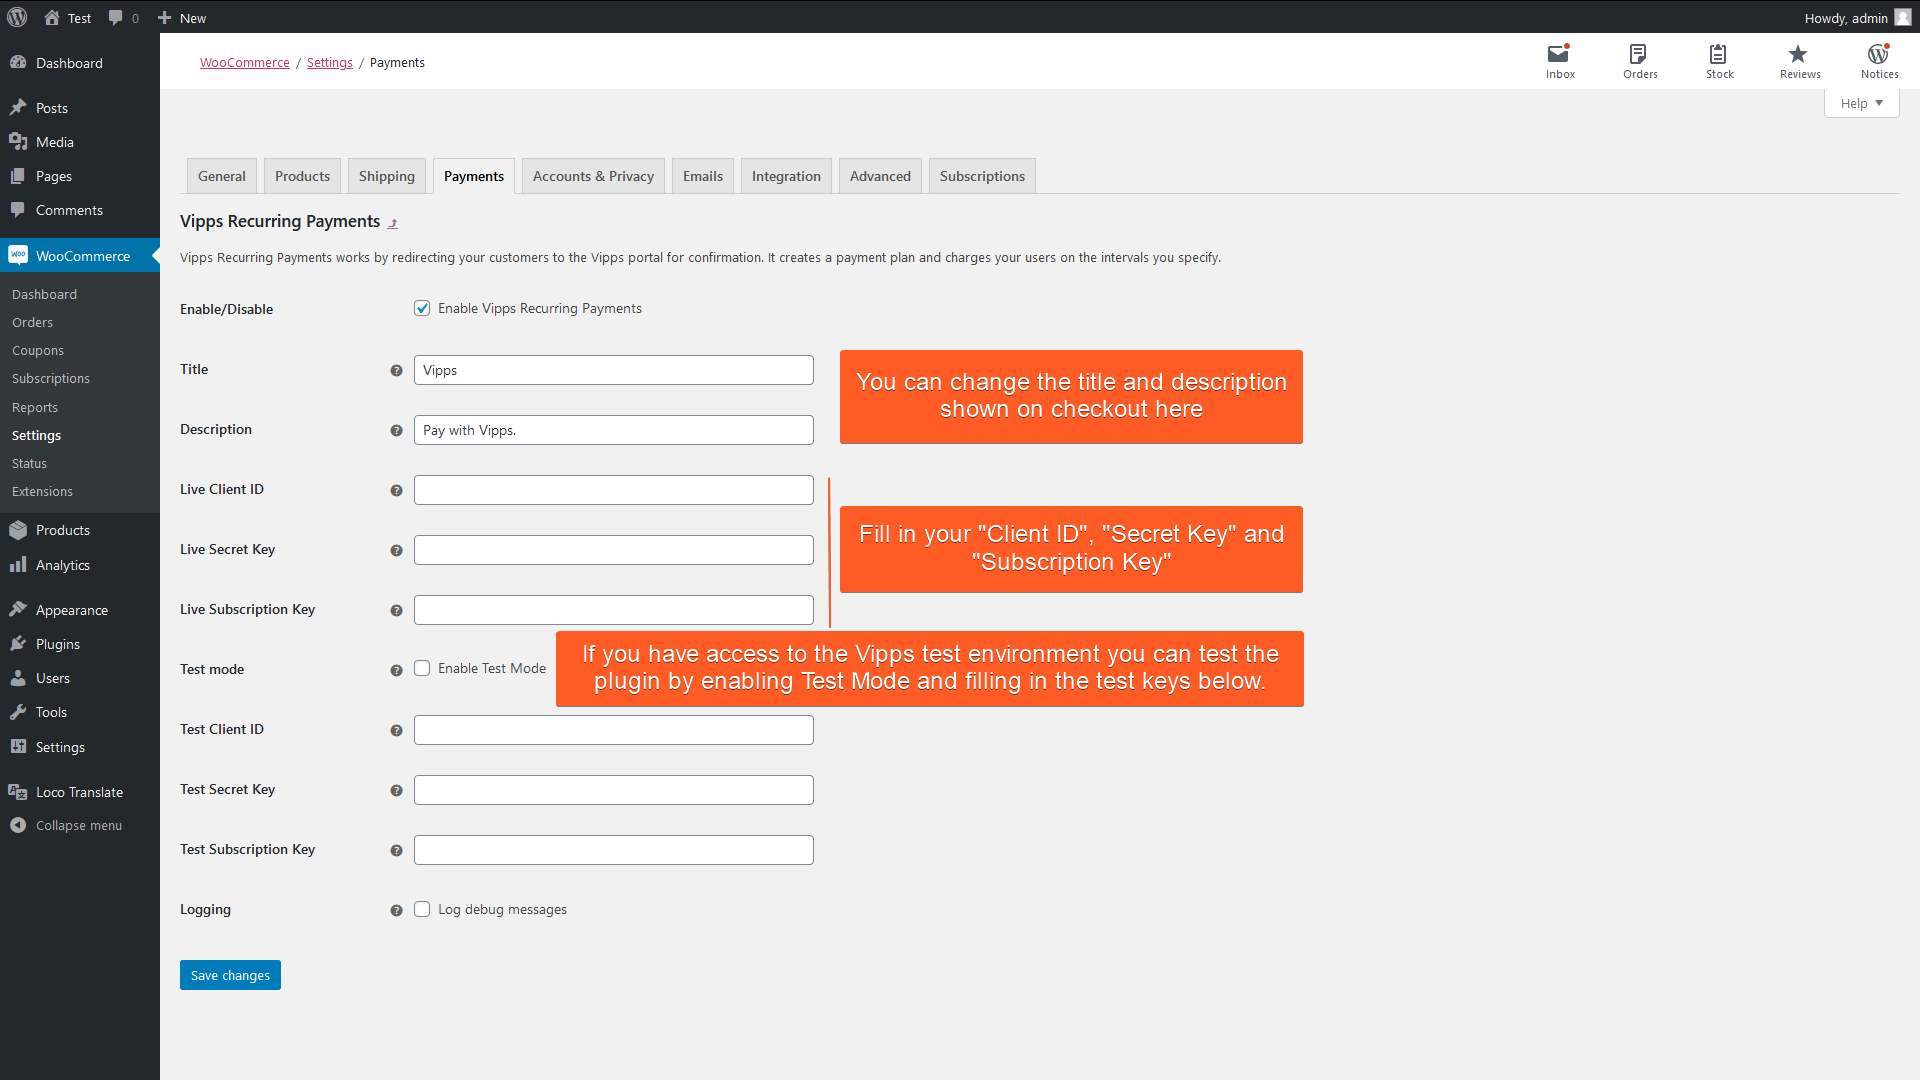
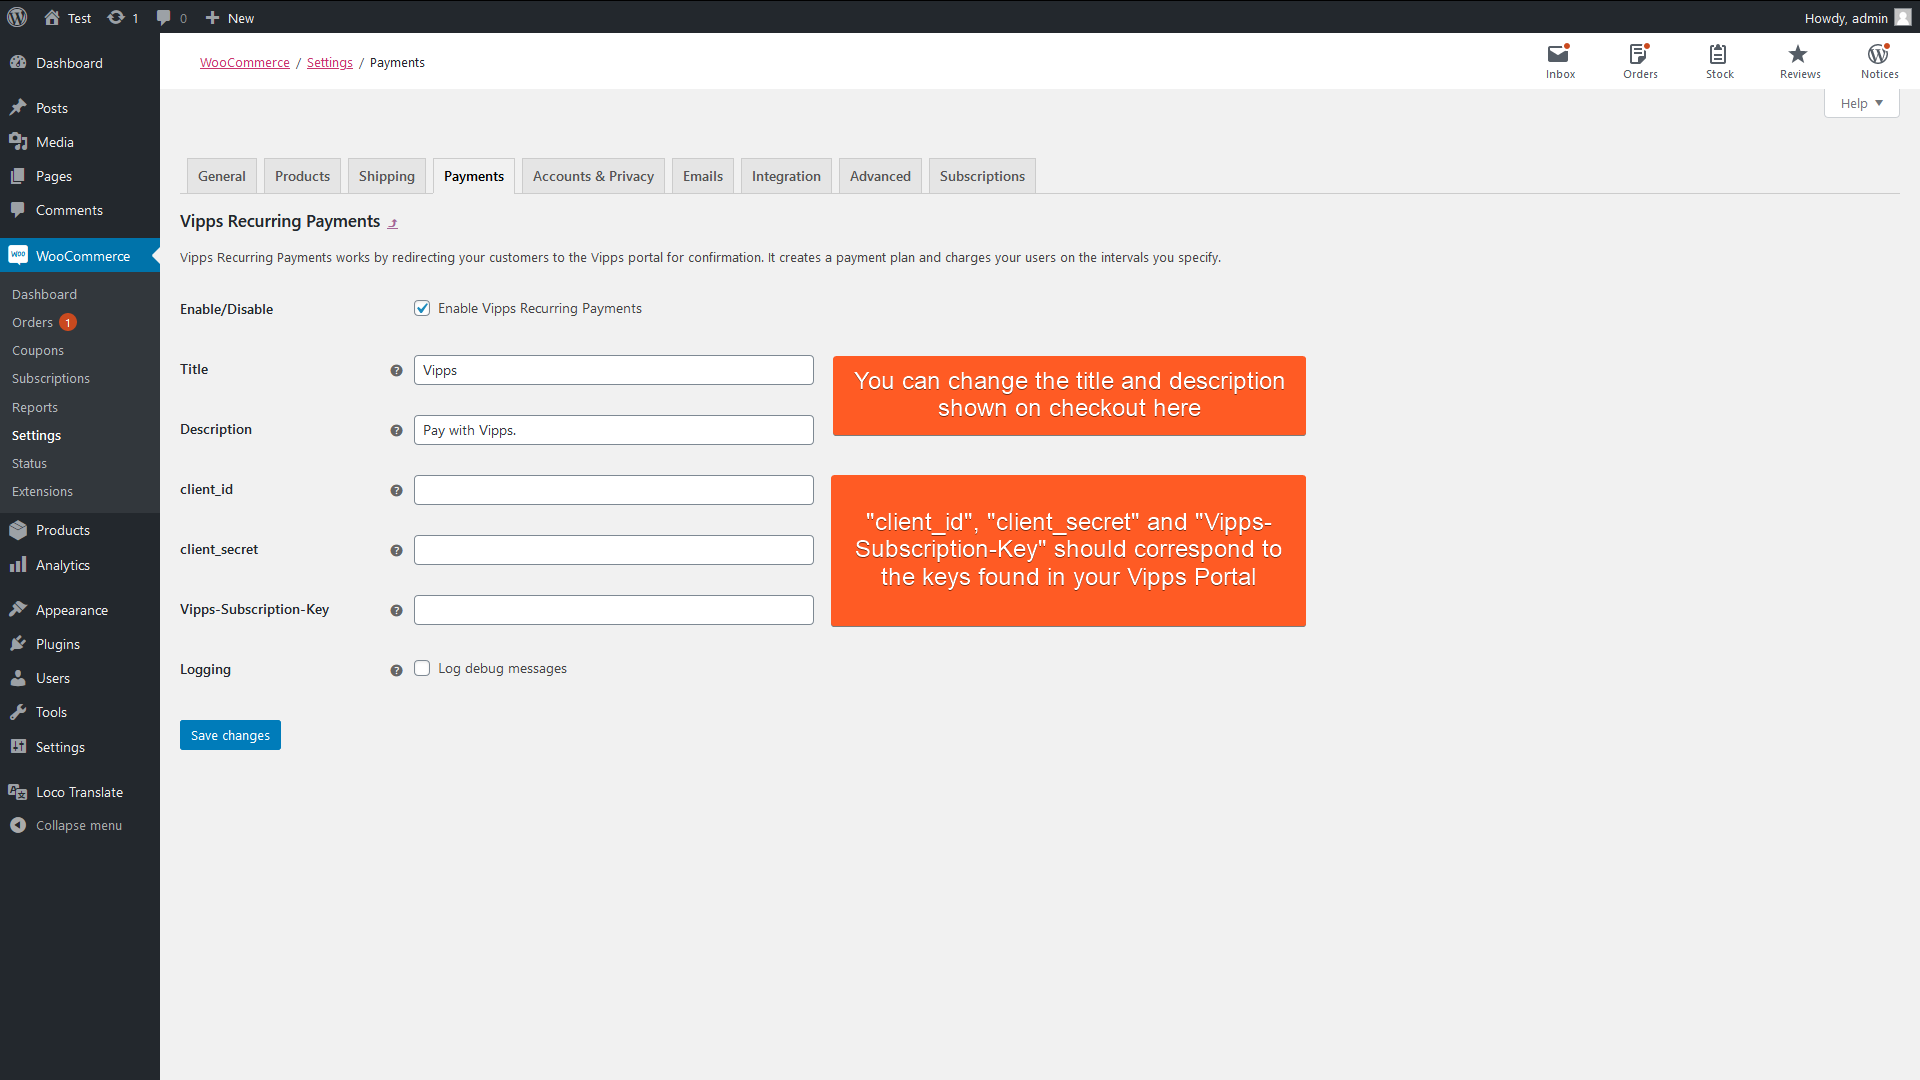
Simplify settings page and up version to 1.0.3
* Improvement: Removed test fields from settings in favour of a the `WC_VIPPS_RECURRING_TEST_MODE` constant.
* Improvement: Renamed test fields to be the same as found in your Vipps Portal
* Change: Renamed `WC_VIPPS_RECURRING_DUE_MINIMUM_DAYS` constant to `WC_VIPPS_RECURRING_CHARGE_BEFORE_DUE_DAYS`.
* Fix: Constant overrides now work properly.

diff --git a/woo-vipps-recurring.php b/woo-vipps-recurring.php
@@ -5,7 +5,7 @@
  * Description: Offer recurring payments with Vipps for WooCommerce Subscriptions
  * Author: Vipps AS
  * Author URI: https://vipps.no
- * Version: 1.0.2
+ * Version: 1.0.3
  * Requires at least: 4.4
  * Tested up to: 5.2.4
  * WC requires at least: 5.0.0
@@ -78,7 +78,7 @@ function woocommerce_gateway_vipps_recurring_init() {
 		/*
 		 * Required minimums and constants
 		 */
-		define( 'WC_VIPPS_RECURRING_VERSION', '1.0.2' );
+		define( 'WC_VIPPS_RECURRING_VERSION', '1.0.3' );
 		define( 'WC_VIPPS_RECURRING_MIN_PHP_VER', '7.1.0' );
 		define( 'WC_VIPPS_RECURRING_MIN_WC_VER', '5.0.0' );
 		define( 'WC_VIPPS_RECURRING_MAIN_FILE', __FILE__ );
@@ -88,13 +88,25 @@ function woocommerce_gateway_vipps_recurring_init() {
 		/*
 		 * Amount of days to retry a payment when creating a charge in the Vipps API
 		 */
-		define('WC_VIPPS_RECURRING_RETRY_DAYS', 3);
+		if ( ! defined( 'WC_VIPPS_RECURRING_RETRY_DAYS' ) ) {
+			define( 'WC_VIPPS_RECURRING_RETRY_DAYS', 3 );
+		}
 
 		/*
-		 * Minimum amount of days to charge in advance when renewing a subscription.
+		 * Amount of days to charge in advance when renewing a subscription.
 		 * Currently this value has to be 6 days or more as per Vipps' specification.
 		 */
-		define('WC_VIPPS_RECURRING_DUE_MINIMUM_DAYS', 6);
+		if ( ! defined( 'WC_VIPPS_RECURRING_CHARGE_BEFORE_DUE_DAYS' ) ) {
+			define( 'WC_VIPPS_RECURRING_CHARGE_BEFORE_DUE_DAYS', 6 );
+		}
+
+
+		/*
+		 * Whether or not to put the plugin into test mode. This is only useful for developers.
+		 */
+		if ( ! defined( 'WC_VIPPS_RECURRING_TEST_MODE' ) ) {
+			define( 'WC_VIPPS_RECURRING_TEST_MODE', false );
+		}
 
 		class WC_Vipps_Recurring {
 			/**
@@ -209,7 +221,7 @@ function woocommerce_gateway_vipps_recurring_init() {
 
 				if ( $gateway->testmode ) {
 					add_action( 'admin_notices', static function () {
-						$notice = __( 'Vipps Recurring Payments is currently in test mode - no real transactions will occur. Disable this <a href="admin.php?page=wc-settings&tab=checkout&section=vipps_recurring" target="_blank">here</a> when you are ready to go live!', 'woo-vipps-recurring' );
+						$notice = __( 'Vipps Recurring Payments is currently in test mode - no real transactions will occur. Disable this in your wp_config when you are ready to go live!', 'woo-vipps-recurring' );
 						echo "<div class='notice notice-info is-dismissible'><p>$notice</p></div>";
 					} );
 				}

diff --git a/includes/admin/vipps-recurring-settings.php b/includes/admin/vipps-recurring-settings.php
@@ -29,50 +29,21 @@ return apply_filters(
 			'desc_tip'    => true,
 		],
 		'client_id'             => [
-			'title'       => __( 'Live Client ID', 'woo-vipps-recurring' ),
+			'title'       => __( 'client_id', 'woo-vipps-recurring' ),
 			'type'        => 'text',
 			'description' => __( 'Get your API keys from your Vipps developer portal.', 'woo-vipps-recurring' ),
 			'default'     => '',
 			'desc_tip'    => true,
 		],
 		'secret_key'            => [
-			'title'       => __( 'Live Secret Key', 'woo-vipps-recurring' ),
+			'title'       => __( 'client_secret', 'woo-vipps-recurring' ),
 			'type'        => 'password',
 			'description' => __( 'Get your API keys from your Vipps developer portal.', 'woo-vipps-recurring' ),
 			'default'     => '',
 			'desc_tip'    => true,
 		],
 		'subscription_key'      => [
-			'title'       => __( 'Live Subscription Key', 'woo-vipps-recurring' ),
-			'type'        => 'password',
-			'description' => __( 'Get your API keys from your Vipps developer portal.', 'woo-vipps-recurring' ),
-			'default'     => '',
-			'desc_tip'    => true,
-		],
-		'testmode'              => [
-			'title'       => __( 'Test mode', 'woo-vipps-recurring' ),
-			'label'       => __( 'Enable Test Mode', 'woo-vipps-recurring' ),
-			'type'        => 'checkbox',
-			'description' => __( 'Place the payment gateway in test mode using test API keys.', 'woo-vipps-recurring' ),
-			'default'     => 'no',
-			'desc_tip'    => true,
-		],
-		'test_client_id'        => [
-			'title'       => __( 'Test Client ID', 'woo-vipps-recurring' ),
-			'type'        => 'text',
-			'description' => __( 'Get your API keys from your Vipps developer portal.', 'woo-vipps-recurring' ),
-			'default'     => '',
-			'desc_tip'    => true,
-		],
-		'test_secret_key'       => [
-			'title'       => __( 'Test Secret Key', 'woo-vipps-recurring' ),
-			'type'        => 'password',
-			'description' => __( 'Get your API keys from your Vipps developer portal.', 'woo-vipps-recurring' ),
-			'default'     => '',
-			'desc_tip'    => true,
-		],
-		'test_subscription_key' => [
-			'title'       => __( 'Test Subscription Key', 'woo-vipps-recurring' ),
+			'title'       => __( 'Vipps-Subscription-Key', 'woo-vipps-recurring' ),
 			'type'        => 'password',
 			'description' => __( 'Get your API keys from your Vipps developer portal.', 'woo-vipps-recurring' ),
 			'default'     => '',

diff --git a/includes/class-wc-gateway-vipps-recurring.php b/includes/class-wc-gateway-vipps-recurring.php
@@ -93,10 +93,10 @@ class WC_Gateway_Vipps_Recurring extends WC_Payment_Gateway {
 		$this->title             = $this->get_option( 'title' );
 		$this->description       = $this->get_option( 'description' );
 		$this->enabled           = $this->get_option( 'enabled' );
-		$this->testmode          = 'yes' === $this->get_option( 'testmode' );
-		$this->secret_key        = $this->testmode ? $this->get_option( 'test_secret_key' ) : $this->get_option( 'secret_key' );
-		$this->client_id         = $this->testmode ? $this->get_option( 'test_client_id' ) : $this->get_option( 'client_id' );
-		$this->subscription_key  = $this->testmode ? $this->get_option( 'test_subscription_key' ) : $this->get_option( 'subscription_key' );
+		$this->testmode          = WC_VIPPS_RECURRING_TEST_MODE;
+		$this->secret_key        = $this->get_option( 'secret_key' );
+		$this->client_id         = $this->get_option( 'client_id' );
+		$this->subscription_key  = $this->get_option( 'subscription_key' );
 		$this->order_button_text = __( 'Pay with Vipps', 'woo-vipps-recurring' );
 
 		$this->api_url = $this->testmode ? 'https://apitest.vipps.no' : 'https://api.vipps.no';

diff --git a/includes/class-wc-vipps-recurring-api.php b/includes/class-wc-vipps-recurring-api.php
@@ -21,7 +21,7 @@ class VippsRecurringApi {
 	 *
 	 * @var int $due_minimum_days
 	 */
-	public $due_minimum_days = WC_VIPPS_RECURRING_DUE_MINIMUM_DAYS;
+	public $due_minimum_days = WC_VIPPS_RECURRING_CHARGE_BEFORE_DUE_DAYS;
 
 	/**
 	 * Amount of days to retry a payment for when creating a charge

diff --git a/README.md b/README.md
@@ -4,11 +4,11 @@
 
 **We encourage you to create an issue here or on the WordPress plugin page if you require assistance or run in to a problem.**
 
-For Vipps contact information check the main Vipps GitHub page: [https://github.com/vippsas](https://github.com/vippsas)
+For Vipps contact information check the main Vipps GitHub page: [https://github.com/vippsas](https://github.com/vippsas).
 
 # Description
 
-This is the official Vipps Recurring Payments plugin for WooCommerce. It is owned by Vipps AS and maintained by Everyday AS.
+This is the official Vipps Recurring Payments plugin for WooCommerce. It is owned by [Vipps AS](https://vipps.no) and maintained by [Everyday AS](https://everyday.no).
 
 Vipps Recurring Payments for WooCommerce is perfect for you if you run a web shop with subscription based services or other products that would benefit from subscriptions.
 
@@ -87,11 +87,16 @@ Constants can be re-defined by using `define('CONSTANT_NAME', 'value');` in `wp-
 
 The amount of days Vipps will retry a charge for before it fails. Documentation can be found [here](https://github.com/vippsas/vipps-recurring-api/blob/master/vipps-recurring-api.md#charge-retries).
 
-`WC_VIPPS_RECURRING_DUE_MINIMUM_DAYS`: (integer) default: 6
+`WC_VIPPS_RECURRING_CHARGE_BEFORE_DUE_DAYS`: (integer) default: 6
 
-When a charge is created it will be the status of `DUE` in the Vipps API for 6 days, this value makes it so the plugin creates the charge 6 days before the due date.
+The purpose of this value is to make sure money is drawn from the customer inline with the customer's billing date in WooCommerce.
+A value of `6` means the plugin will create a charge six days in advance when renewing a subscription to counteract the Recurring API's six day grace period before a charge is charged.
 
-Typically you do not want to edit this value, but if you want the charge to be created at the billing date you should change this constant to 0.
+Typically you do not want to edit this value, but if you want the charge to be created at the billing date you should change this constant to `0`. In this case you will receive the money six days later than the customer's billing date.
+
+`WC_VIPPS_RECURRING_TEST_MODE`: (boolean) default: false
+
+Enables someone with access to Vipps developer keys to test the plugin. This is not available to regular users. See [#how-can-i-test-that-the-plugin-works-correctly](#how-can-i-test-that-the-plugin-works-correctly).
 
 # Frequently Asked Questions
 
@@ -119,7 +124,7 @@ Vipps is only available in Norway at the moment and only users who have Vipps wi
 
 ## How can I test that the plugin works correctly?
 
-If you have access to the Vipps test environment you are able to use the test mode found in the plugin settings. 
+If you have access to the Vipps test environment you are able to use the test mode by setting the `WC_VIPPS_RECURRING_TEST_MODE` constant in `wp-config.php`. 
 See the [getting started](https://github.com/vippsas/vipps-developers/blob/master/vipps-getting-started.md) guide for details about how to get started using the test environment.
 
 Vipps does not offer test accounts for regular users of the plugin but you can still penny-test the plugin by sending a small amount of money like 1 or 2 NOK using your production keys. 
